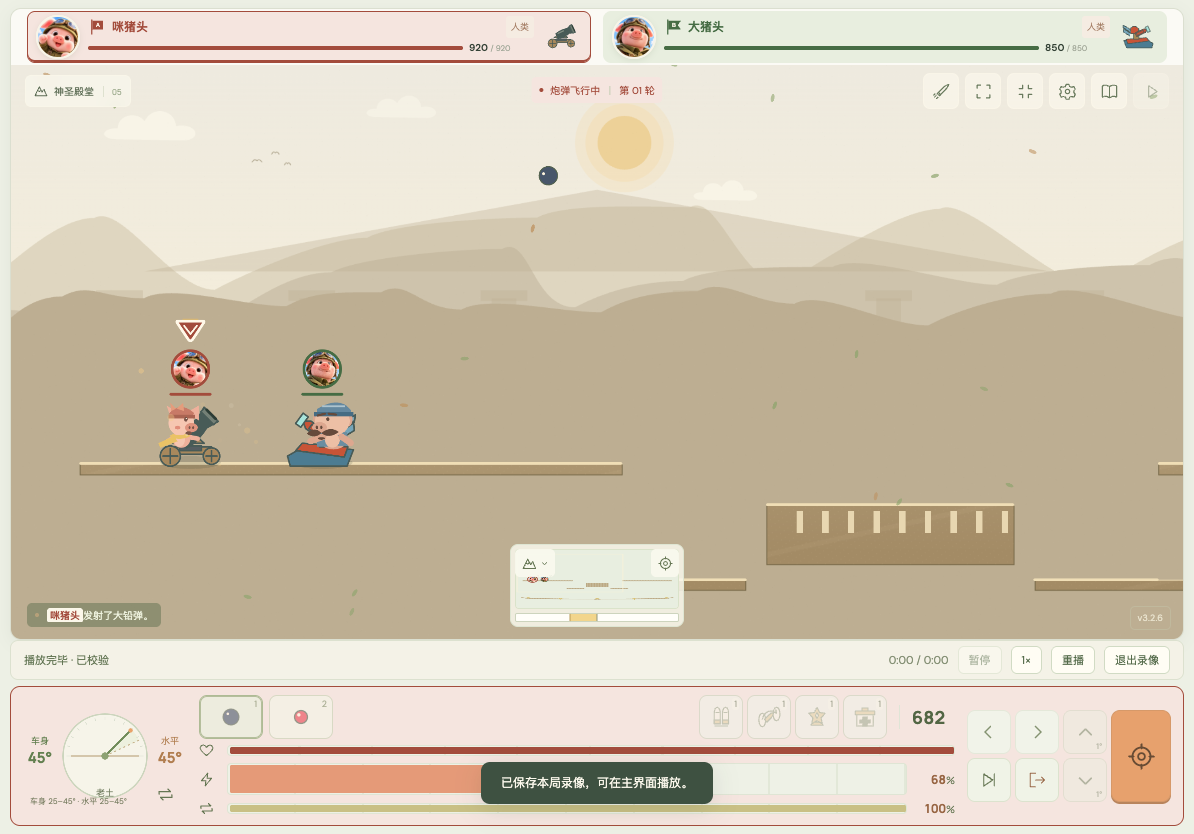
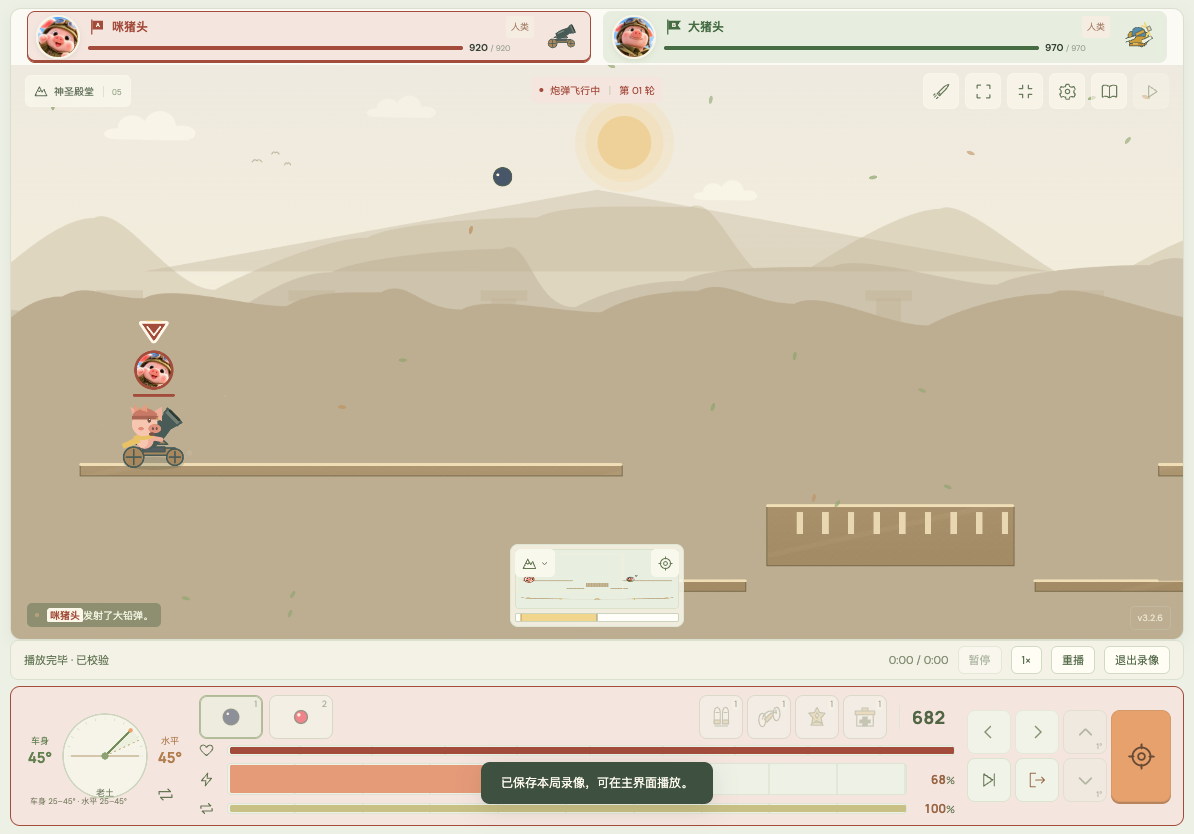
Record 3.2.6 live offline angle-control verification

diff --git a/QA/v3.2.6-review.md b/QA/v3.2.6-review.md
@@ -29,3 +29,9 @@
 - 最终本地生产包断网重载，触屏角度按钮各调1°且不变力度；四张原头像完整解码及哈希、100 MP3哈希、完整配乐曲尾206/4096字节、Pixi、快照、录像保存与精确重放均通过。没有QA接口或pageerror，见local-offline-verification.json。
 - 原私有目录与四处ft2来源素材继续忽略，产物和预缓存通过90,000,000字节上限；只新增SVG路径／代码／样式，不增加运行时位图或声音素材。
 - 实测dist 37,203,901字节，分配磁盘空间43,245,568字节，唯一预缓存37,166,905字节，均在90MB内。
+
+## 线上核验
+
+- 实现提交765d7c4已推送main，Pages提交9a1078713b038056d8a7aa8785eac16a5f35d654；本版仅部署一次。线上version.json为3.2.6，入口SHA256与本地最终构建一致。
+- 新环境缓存后断网重载，上下触屏键各调1°、力度不变，原尺寸检查通过。四头像解码／PNG哈希、100MP3／完整曲尾、实际殿堂音乐、Pixi和快照正常；保存录像后从首页精确重放校验通过。无生产QA接口或pageerror。
+- 详细结果见live-verification.json；同名live-offline截图已更新为真实线上验证，本地结果有明确localhost base。私有／源素材继续忽略，未进入提交或产物。
